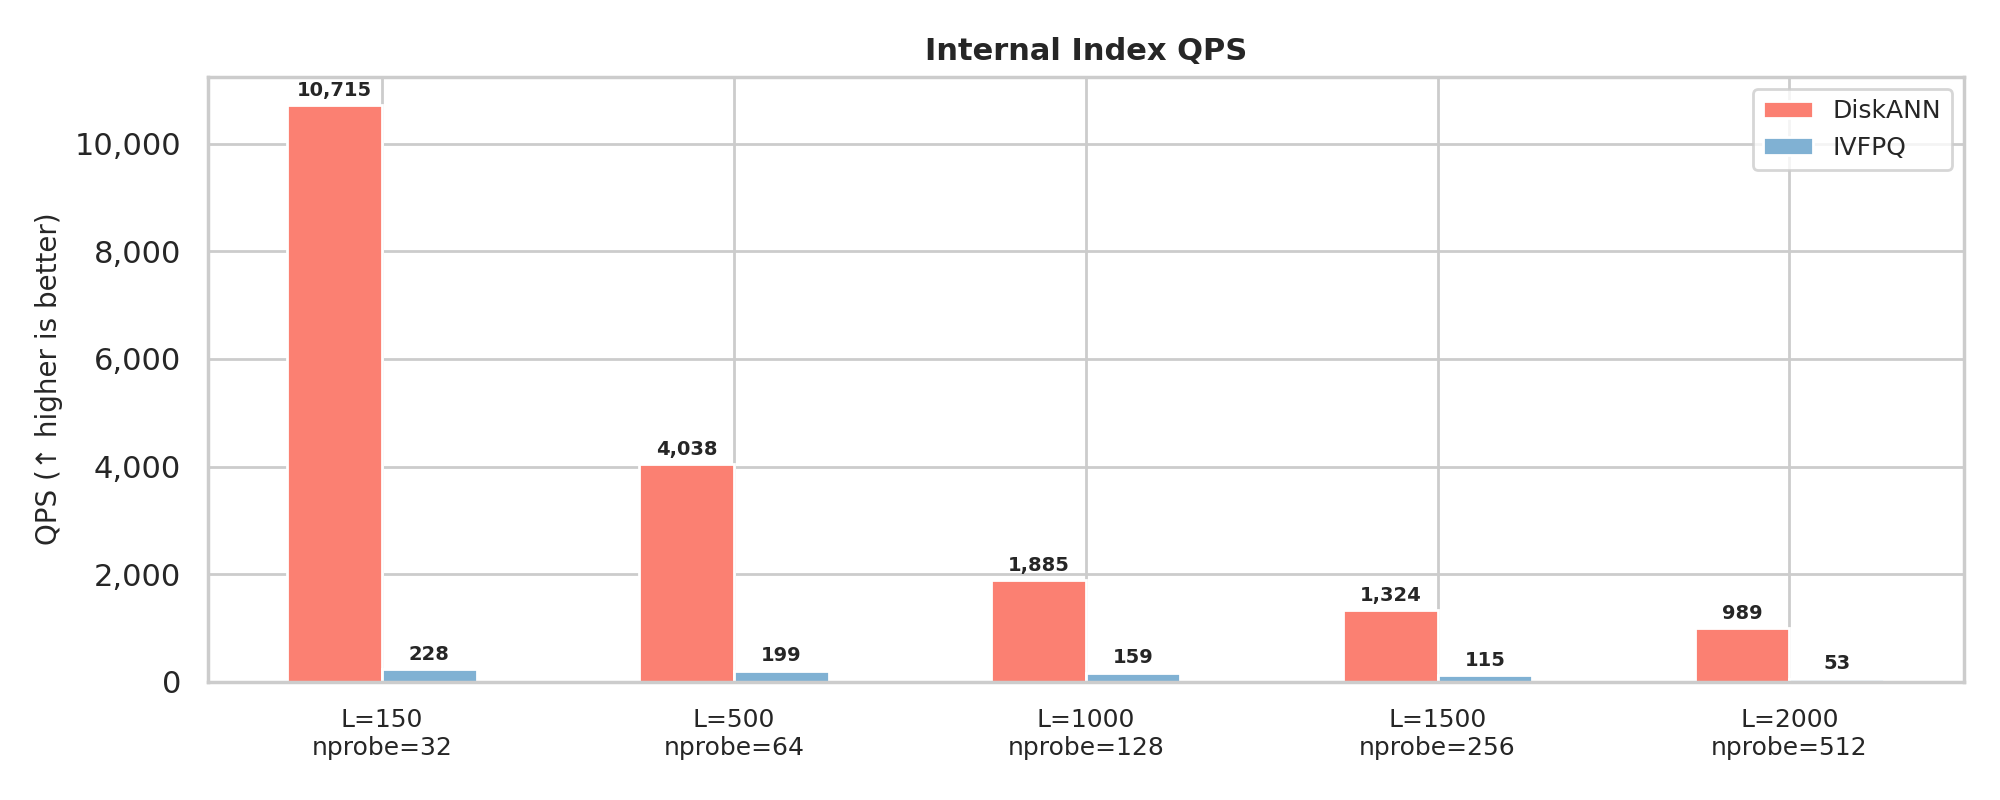
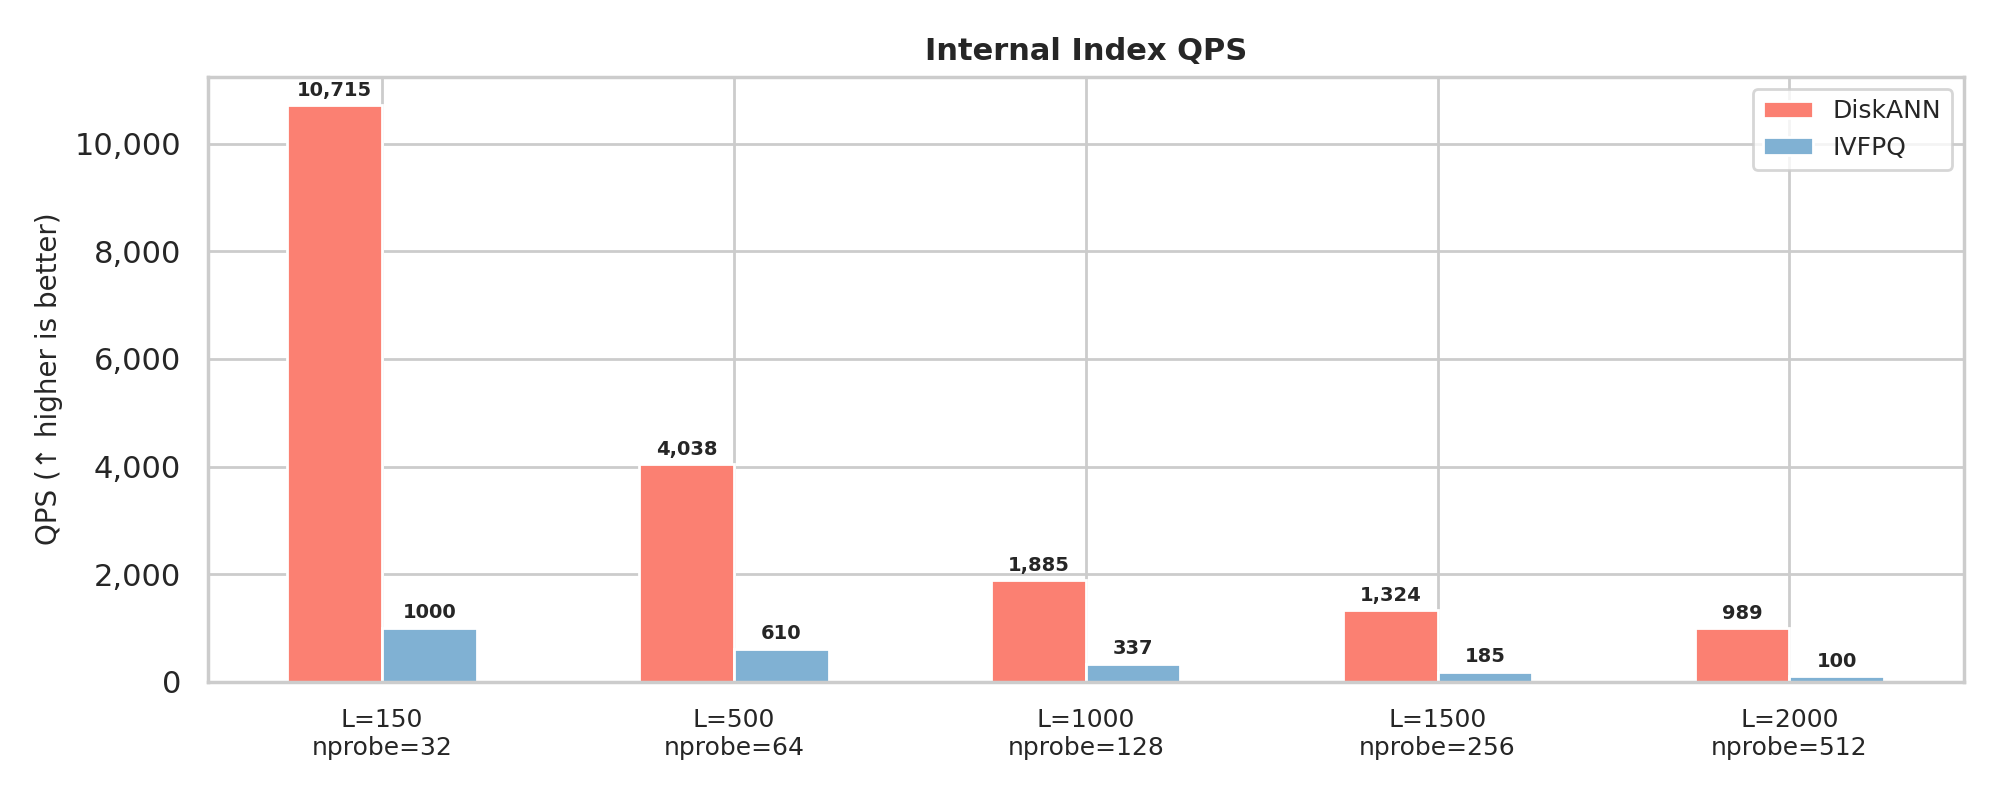
figure updatee

diff --git a/massive_serve/src/indicies/ivf_pq.py b/massive_serve/src/indicies/ivf_pq.py
@@ -552,7 +552,7 @@ class IVFPQIndexer(object):
         if expand_index_id is not None:
             print(f"[EXPANSION MODE] Expanding index_id={expand_index_id} with offset={expand_offset}")
             result = self.expand_passage(expand_index_id, offset=expand_offset)
-            return None, [[result]]
+            return None, [[result]], None  # No timings for expansion mode
 
         if isinstance(raw_query, str):
             raw_queries = [raw_query]
@@ -603,14 +603,23 @@ class IVFPQIndexer(object):
         best_total = 0
 
         used_big_k = None
+        # Timing accumulators
+        faiss_search_time = 0.0
+        mapping_time = 0.0
+        
         for attempt in range(len(K_ranges)):
             K = K_ranges[attempt]
             print(f"[SEARCH] Attempt {attempt + 1}: K is {K}")
             used_big_k = K
+            
+            # Time FAISS index search separately
+            t_faiss_start = time.time()
             all_scores, all_indices = self.index.search(query_embs, K)
+            t_faiss_end = time.time()
+            faiss_search_time += (t_faiss_end - t_faiss_start)
 
-
-            # === Parallel get_retrieved_passages ===
+            # === Parallel get_retrieved_passages (mapping) ===
+            t_map_start = time.time()
             def retrieve_for_query(i):
                 q_text = raw_queries[i]
                 top_indices = all_indices[i]
@@ -618,6 +627,8 @@ class IVFPQIndexer(object):
 
             with ThreadPoolExecutor() as executor:
                 all_raw_passages = list(executor.map(retrieve_for_query, range(len(raw_queries))))
+            t_map_end = time.time()
+            mapping_time += (t_map_end - t_map_start)
 
             all_batch_passages = []
 
@@ -732,8 +743,17 @@ class IVFPQIndexer(object):
         print(f"[SEARCH] Completed batch of {len(raw_queries)} in {t1 - t0:.2f}s")
         print(f"[DEBUG] Returning scores of shape: {len(all_final_scores)} x {len(all_final_scores[0]) if all_final_scores else 0}")
         print(f"[DEBUG] Returning passages of shape: {len(all_final_passages)} x {len(all_final_passages[0]) if all_final_passages else 0}")
+        
+        # Return timings similar to DiskANN backend
+        timings = {
+            'faiss_search': round(faiss_search_time * 1000.0, 3),  # ms
+            'mapping': round(mapping_time * 1000.0, 3),  # ms
+            'nprobe': nprobe,
+            'K_FETCH': used_big_k,
+        }
+        print(f"[IVFPQ] Timings: faiss_search={timings['faiss_search']:.2f}ms, mapping={timings['mapping']:.2f}ms")
 
-        return all_final_scores, all_final_passages
+        return all_final_scores, all_final_passages, timings
 
 
 

diff --git a/massive_serve/api/api_index.py b/massive_serve/api/api_index.py
@@ -60,7 +60,7 @@ class DatastoreAPI():
 
         # Expansion path: always handled by IVFPQ expander, regardless of UI backend
         if expand_index_id is not None:
-            searched_scores, searched_passages = self.index.search(
+            expand_ret = self.index.search(
                 query,
                 query_embedding,
                 n_docs,
@@ -73,6 +73,11 @@ class DatastoreAPI():
                 use_diskann=False,
                 min_words=min_words,
             )
+            # Handle 3-tuple return (scores, passages, timings)
+            if isinstance(expand_ret, tuple) and len(expand_ret) == 3:
+                searched_scores, searched_passages, _ = expand_ret
+            else:
+                searched_scores, searched_passages = expand_ret
             t_end = time.time()
             return {
                 'scores': searched_scores,
@@ -84,6 +89,7 @@ class DatastoreAPI():
                 }
             }
 
+        backend_timings = None  # Initialize before branches
         if backend == 'diskann':
             L = int(diskann_L or 300)
             W = int(diskann_W or 4)
@@ -103,6 +109,7 @@ class DatastoreAPI():
                 searched_scores, searched_passages, backend_timings = ret
             else:
                 searched_scores, searched_passages = ret
+                backend_timings = None
             if use_diverse:
                 try:
                     reranked_passages = []
@@ -132,7 +139,7 @@ class DatastoreAPI():
                     logging.warning(f"[DiskANN] Diverse rerank failed: {exc}")
         else:
             t2 = time.time()
-            searched_scores, searched_passages  = self.index.search(
+            ivfpq_ret = self.index.search(
                 query,
                 query_embedding,
                 n_docs,
@@ -146,6 +153,12 @@ class DatastoreAPI():
                 min_words=min_words,
             )
             t3 = time.time()
+            # Handle 3-tuple return (scores, passages, timings) from IVFPQ
+            if isinstance(ivfpq_ret, tuple) and len(ivfpq_ret) == 3:
+                searched_scores, searched_passages, backend_timings = ivfpq_ret
+            else:
+                searched_scores, searched_passages = ivfpq_ret
+                backend_timings = None
         t_end = time.time()
         results = {
             'scores': searched_scores,

diff --git a/massive_serve/api/serve.py b/massive_serve/api/serve.py
@@ -162,22 +162,24 @@ class DiskVoteStore:
         out = {}
         backend = ctx.get("backend")
         if backend:
-        try:
+            try:
                 out["backend"] = str(backend).strip().lower()
-        except Exception:
+            except Exception:
                 out["backend"] = str(backend)
         nprobe_val = ctx.get("nprobe")
         coerced_nprobe = coerce_int(nprobe_val)
         if coerced_nprobe is not None:
             out["nprobe"] = coerced_nprobe  # ensure int
             if "exact_search" in ctx:
-            out["exact_search"] = bool(ctx["exact_search"])  # required boolean
+                out["exact_search"] = bool(ctx["exact_search"])  # required boolean
             if "diverse_search" in ctx:
-            out["diverse_search"] = bool(ctx["diverse_search"])  # required boolean
+                out["diverse_search"] = bool(ctx["diverse_search"])  # required boolean
+            if "faiss_search" in ctx:
+                out["faiss_search"] = bool(ctx["faiss_search"])  # required boolean
             # Only persist lambda if diverse_search is true
             if out.get("diverse_search") is True and ("lambda" in ctx) and (ctx["lambda"] is not None):
                 try:
-                out["lambda"] = round(float(ctx["lambda"]), 2)  # 2dp
+                    out["lambda"] = round(float(ctx["lambda"]), 2)  # 2dp
                 except Exception:
                     pass
         k_val = coerce_int(ctx.get("k"))
@@ -347,9 +349,9 @@ class DiskVoteStore:
             ).fetchone()
             if row is not None:
                 return bool(row[0])
-                    except Exception:
-                        pass
-            return None
+        except Exception:
+            pass
+        return None
 
 
 # Instantiate vote store under VM root folder (override with VOTES_DIR if set)
@@ -605,7 +607,7 @@ def search():
                     def _as_int(val):
                         try:
                             return int(val)
-                    except Exception:
+                        except Exception:
                             return None
                     backend_params = {
                         'backend': 'diskann',

diff --git a/scripts/plot_internal_qps_merged.py b/scripts/plot_internal_qps_merged.py
@@ -23,12 +23,13 @@ OUTPUT_PATH = os.path.join(REPO_ROOT, "docs", "plots", "internal_qps_diskann_vs_
 
 # Paired data: DiskANN L values paired with IVFPQ nprobe values
 # Each pair: (DiskANN config, IVFPQ config)
+# IVFPQ internal QPS = 1000 / faiss_ms (pure index search, from batched test 2024-12-11)
 PAIRED_DATA = [
-    {"diskann_label": "L=150", "diskann_qps": 10715.00, "ivfpq_label": "nprobe=32", "ivfpq_qps": 1000 / 4.39},
-    {"diskann_label": "L=500", "diskann_qps": 4037.98, "ivfpq_label": "nprobe=64", "ivfpq_qps": 1000 / 5.02},
-    {"diskann_label": "L=1000", "diskann_qps": 1885.35, "ivfpq_label": "nprobe=128", "ivfpq_qps": 1000 / 6.27},
-    {"diskann_label": "L=1500", "diskann_qps": 1324.28, "ivfpq_label": "nprobe=256", "ivfpq_qps": 1000 / 8.70},
-    {"diskann_label": "L=2000", "diskann_qps": 989.19, "ivfpq_label": "nprobe=512", "ivfpq_qps": 1000 / 18.76},
+    {"diskann_label": "L=150", "diskann_qps": 10715.00, "ivfpq_label": "nprobe=32", "ivfpq_qps": 1000 / 1.00},   # 1000
+    {"diskann_label": "L=500", "diskann_qps": 4037.98, "ivfpq_label": "nprobe=64", "ivfpq_qps": 1000 / 1.64},   # 610
+    {"diskann_label": "L=1000", "diskann_qps": 1885.35, "ivfpq_label": "nprobe=128", "ivfpq_qps": 1000 / 2.97}, # 337
+    {"diskann_label": "L=1500", "diskann_qps": 1324.28, "ivfpq_label": "nprobe=256", "ivfpq_qps": 1000 / 5.41}, # 185
+    {"diskann_label": "L=2000", "diskann_qps": 989.19, "ivfpq_label": "nprobe=512", "ivfpq_qps": 1000 / 10.01}, # 100
 ]
 
 

diff --git a/scripts/plot_diskann_vs_ivfpq_combined.py b/scripts/plot_diskann_vs_ivfpq_combined.py
@@ -23,11 +23,11 @@ def main() -> None:
     }
     
     # Data for recommended configs: DiskANN L=2000, IVFPQ nprobe=256
-    # Throughput (batched QPS)
-    throughput = {"DiskANN (L=2000)": 232.56, "IVFPQ (nprobe=256)": 91.02}
+    # Throughput (batched QPS) - from 2024-12-11 tests
+    throughput = {"DiskANN (L=2000)": 232.56, "IVFPQ (nprobe=256)": 66.67}
     
-    # Latency (single-request, ms)
-    latency = {"DiskANN (L=2000)": 3.92, "IVFPQ (nprobe=256)": 10.57}
+    # Latency (single-request, ms) - from 2024-12-11 tests
+    latency = {"DiskANN (L=2000)": 124.04, "IVFPQ (nprobe=256)": 307.18}
     
     # Accuracy (TriviaQA Recall as representative metric)
     accuracy = {"DiskANN (L=5000)": 89.9, "IVFPQ (nprobe=256)": 88.2}

diff --git a/docs/index.md b/docs/index.md
@@ -286,7 +286,7 @@ In DS Serve we support both backends:
 </p>
 
 <h3 align="center">DiskANN vs IVFPQ</h3>
-<p>DiskANN is more accurate <i>and</i> faster than IVFPQ. At recommended configs (DiskANN L=2000, IVFPQ nprobe=256), DiskANN achieves <b>~2.6× higher throughput</b> and <b>~2.7× lower latency</b>. The internal DiskANN index reaches up to 10,000 QPS; DiskANN is the recommended default. Accuracy comparison uses DiskANN L=2000 and IVFPQ nprobe=256 on <a href="https://arxiv.org/abs/1705.03551" target="_blank">TriviaQA</a> and <a href="https://arxiv.org/abs/1906.00300" target="_blank">Natural Questions</a>.</p>
+<p>DiskANN is more accurate <i>and</i> faster than IVFPQ. At recommended configs (DiskANN L=2000, IVFPQ nprobe=256), DiskANN achieves <b>~2.3× higher throughput</b> and <b>~2.2× lower latency</b>. The internal DiskANN index reaches up to 10,000 QPS; DiskANN is the recommended default. Accuracy comparison uses DiskANN L=2000 and IVFPQ nprobe=256 on <a href="https://arxiv.org/abs/1705.03551" target="_blank">TriviaQA</a> and <a href="https://arxiv.org/abs/1906.00300" target="_blank">Natural Questions</a>.</p>
 <p align="center">
   <img src="{{ 'plots/diskann_vs_ivfpq_perf.png' | relative_url }}" alt="DiskANN vs IVFPQ throughput and latency" style="width: 32%; margin: 2px;" />
   <img src="{{ 'plots/accuracy_ivfpq_vs_diskann_triviaqa.png' | relative_url }}" alt="TriviaQA accuracy: DiskANN vs IVFPQ" style="width: 32%; margin: 2px;" />
